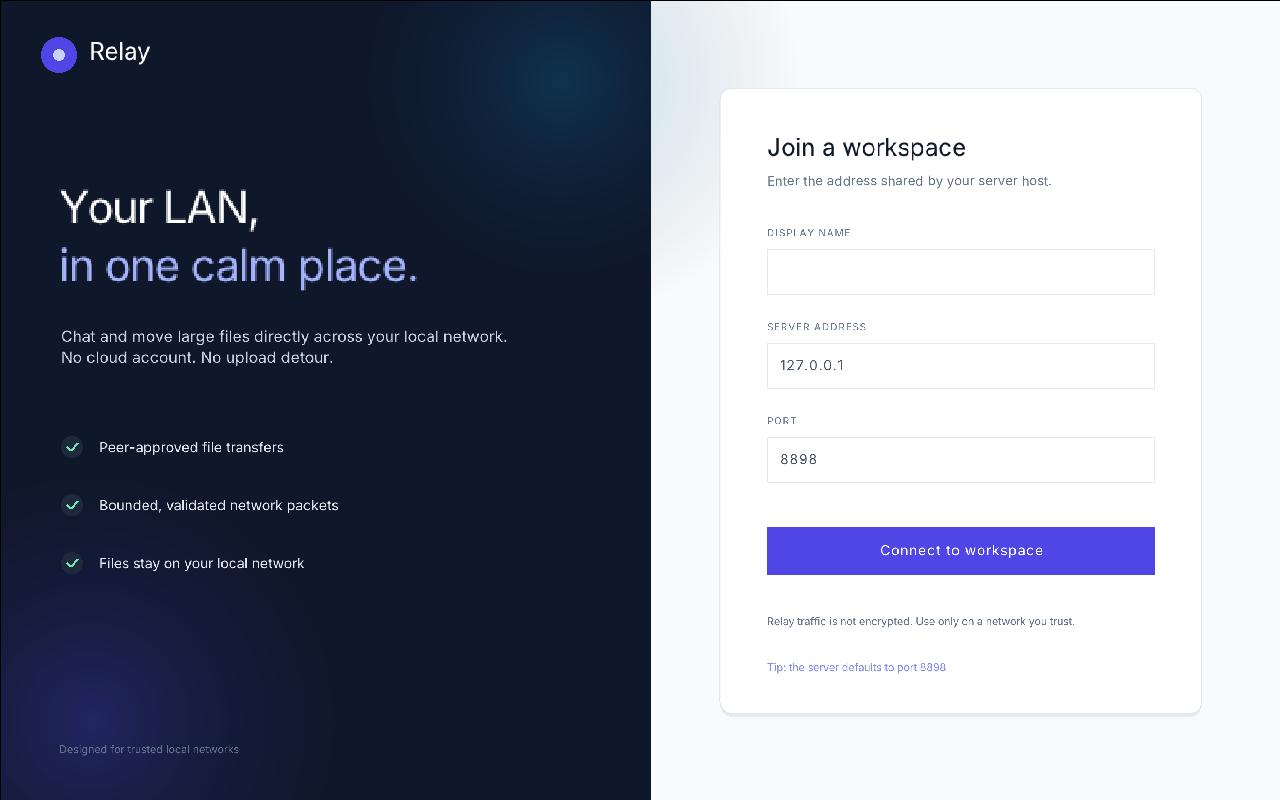
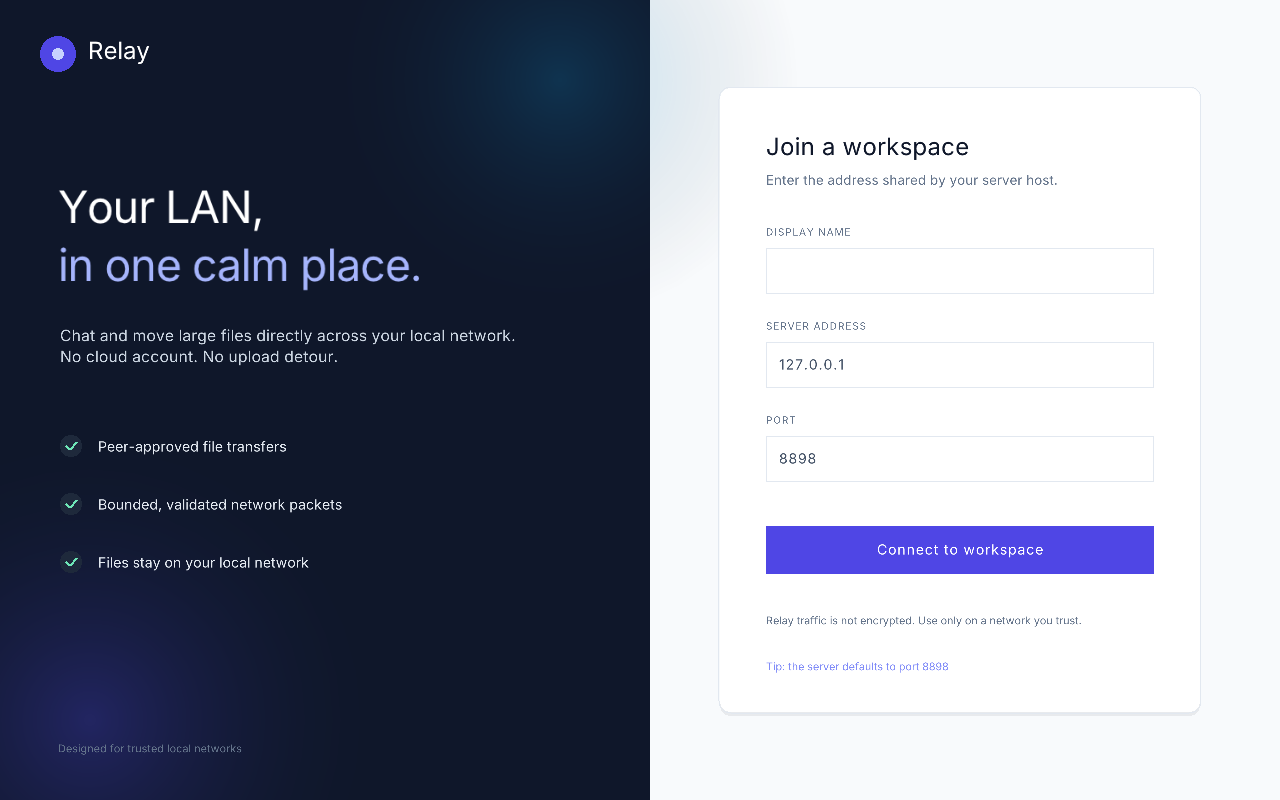
Fix blur font

diff --git a/src/client_gui.c b/src/client_gui.c
@@ -22,6 +22,7 @@
 // We moved implementation to ui_components.c to avoid dupes
 
 #define FPS 60
+#define UI_FONT_BASE_SIZE 64
 #define USERNAME_BUFFER 64
 #define FILENAME_TRUNCATE_THRESHOLD 25
 #define MAX_USERNAME_LENGTH 24
@@ -52,7 +53,11 @@ int main()
     const char* window_title = "Relay - private LAN chat and file transfer";
     InitWindow(WINDOW_WIDTH, WINDOW_HEIGHT, window_title);
     SetTargetFPS(FPS);
-    Font comic_font = LoadFontEx("resources/fonts/Inter-VariableFont_opsz,wght.ttf", 32, NULL, 0);
+    // Rasterize above the largest text size used by the UI. A smaller atlas gets
+    // visibly pixelated when the 54 px welcome heading scales it up.
+    Font comic_font = LoadFontEx(
+        "resources/fonts/Inter-VariableFont_opsz,wght.ttf", UI_FONT_BASE_SIZE, NULL, 0);
+    SetTextureFilter(comic_font.texture, TEXTURE_FILTER_BILINEAR);
     init_ui_theme();
     GuiSetFont(comic_font);
 